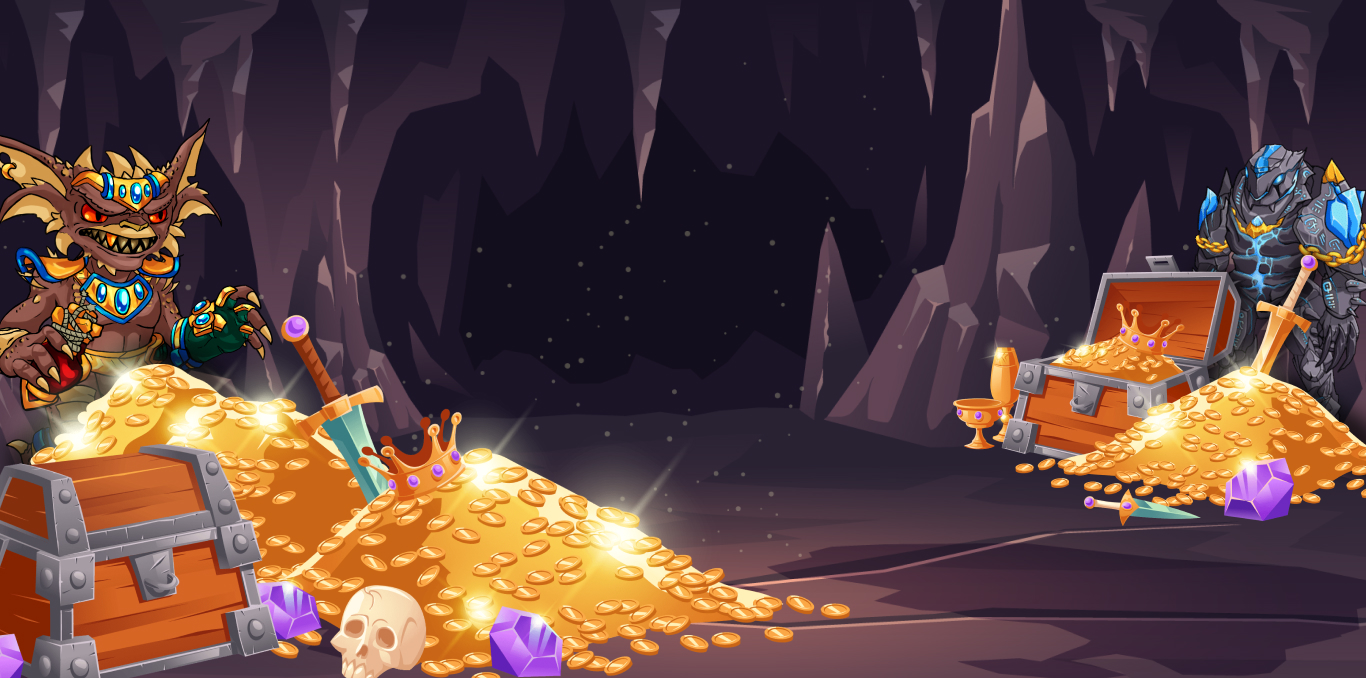
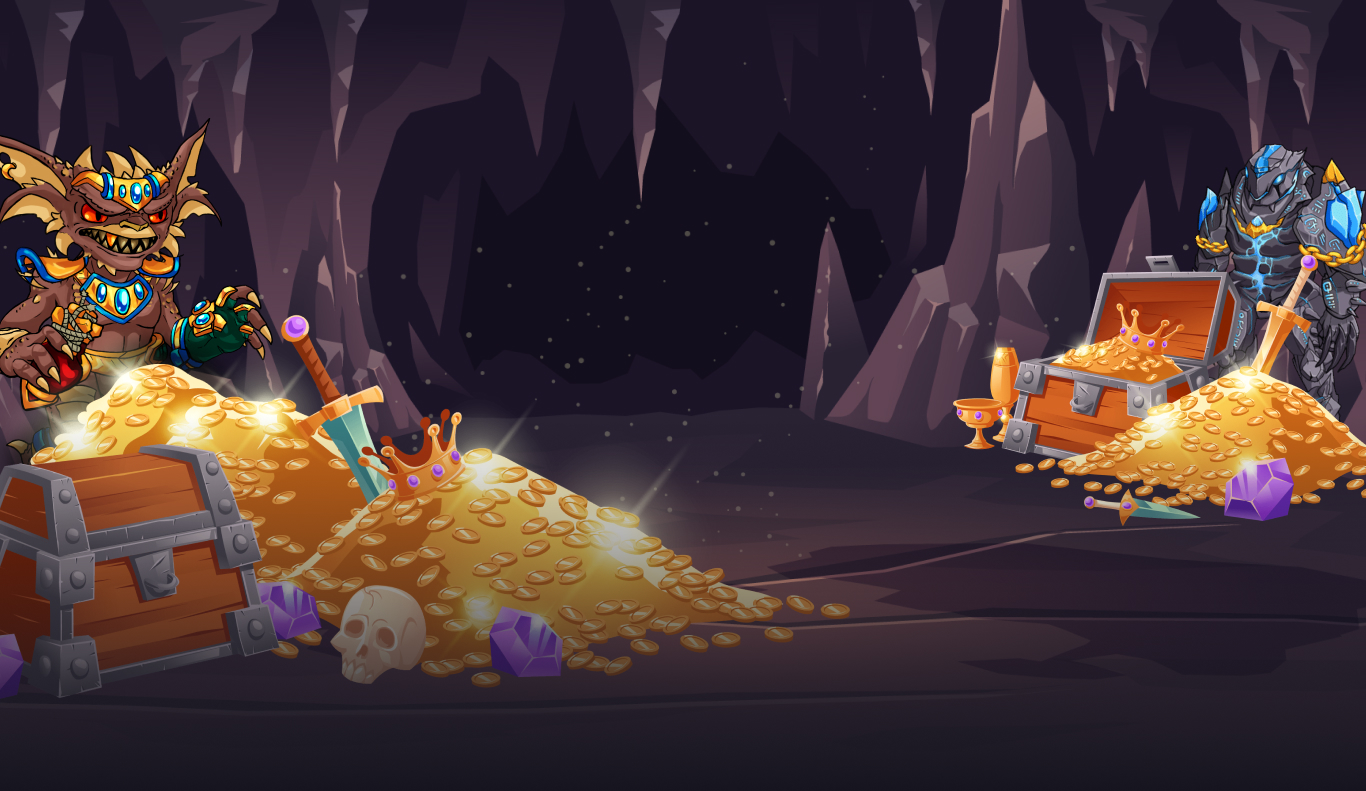
Push

diff --git a/src/components/tabs/Tabs.vue b/src/components/tabs/Tabs.vue
@@ -1,7 +1,9 @@
 <template>
-  <section>
+  <section class="tabs">
     <TabsList />
-    <BoxMonster />
+    <div class="wrapper">
+      <BoxMonster />
+    </div>
   </section>
 </template>
 
@@ -16,3 +18,61 @@ export default {
   },
 };
 </script>
+
+<style scoped lang="scss">
+.tabs {
+  padding-bottom: 24px;
+}
+.wrapper {
+  position: relative;
+  margin: 0 auto;
+  max-height: 507px;
+  width: 280px;
+  overflow: scroll;
+  background-color: #181723;
+  box-shadow: 0px 4px 30px rgba(0, 0, 0, 0.4);
+  border-radius: 10px;
+  &::after {
+    position: fixed;
+    bottom: 24px;
+    width: 280px;
+    max-width: inherit;
+    content: "";
+    display: inline-block;
+    height: 132px;
+    background: linear-gradient(0deg, #262435 0%, rgba(38, 36, 53, 0) 100%);
+  }
+}
+
+@media (min-width: 768px) {
+  .wrapper {
+    width: 700px;
+  }
+}
+
+@media (min-width: 1366px) {
+  .tabs {
+    padding: 90px 0 24px;
+  }
+  .wrapper {
+    width: 980px;
+    max-height: unset;
+    overflow: visible;
+    &::after {
+      display: none;
+    }
+  }
+}
+
+/* @media screen and (orientation: landscape) {
+  .wrapper {
+    overflow: scroll;
+  }
+} */
+</style>
+
+/*FIXME:
+*потрібно реалізувати що при ширені яка в планшеті перевернули екран(orientation: landscape) блок wrapper був - overflow: scroll; в мене не виходить задати таке правило.
+*блок wrapper в мене має висоту, можливо потрібно змінити, щоб підстроювався під висоту пристрою
+*в блокові wrapper створив псевдо елемент ::after i не виходить задати йому ширину 100% - вилазить за родітєля.
+*/

diff --git a/src/App.vue b/src/App.vue
@@ -1,8 +1,12 @@
 <template>
-  <TheHeader />
-  <main class="main">
-    <Tabs />
-  </main>
+  <div class="wrapper">
+    <TheHeader />
+    <main class="main">
+      <Tabs />
+    </main>
+    <div class="bg-img"></div>
+    <div class="bg-black-color"></div>
+  </div>
 </template>
 
 <script>
@@ -37,19 +41,43 @@ img {
   object-fit: cover;
 }
 
-.main {
+.wrapper {
+  position: relative;
+}
+
+.bg-img {
+  position: absolute;
+  top: 0;
+  left: 0;
   width: 100%;
   height: 100%;
   background: url("./assets/img/main-bg-mobile.jpg") center center/cover
     no-repeat;
+  z-index: -1;
+}
+
+.bg-black-color {
+  display: none;
 }
 
 @media (min-width: 1366px) {
-  .main {
-    padding-top: 90px;
+  .bg-img {
+    height: 880px;
     background-image: url("./assets/img/main-bg-desktop.jpg");
+  }
+  .bg-black-color {
+    position: absolute;
+    top: 880px;
+    left: 0;
+    display: block;
+    height: 100%;
+    width: 100%;
+    background-color: #16151f;
+    z-index: -1;
   }
 }
 </style>
+
+
 
 

diff --git a/src/components/tabs/tab-content/box-monster/NezerCrystals.vue b/src/components/tabs/tab-content/box-monster/NezerCrystals.vue
@@ -127,11 +127,6 @@ export default {
 
 <style lang="scss">
 .nazer-crystals {
-  background-color: #181723;
-  box-shadow: 0px 4px 30px rgba(0, 0, 0, 0.4);
-  border-radius: 10px;
-  margin: 10px auto 0;
-  width: 280px;
   padding: 18px 11px;
 }
 .cards-list {
@@ -140,12 +135,16 @@ export default {
   gap: 10px;
 }
 
+@media (min-width: 768px) {
+  .cards-list {
+    grid-template-columns: repeat(3, 1fr);
+    gap: 15px;
+  }
+}
+
 @media (min-width: 1366px) {
   .nazer-crystals {
-    margin-top: 0;
     padding: 24px 26px;
-    width: 980px;
-    border-radius: 0;
   }
   .cards-list {
     grid-template-columns: repeat(4, 1fr);
@@ -154,3 +153,6 @@ export default {
   }
 }
 </style>
+
+/*FIXME: 
+*медіа правило з 768px не виходить перестрщїти колонки для грідів. Інші властивості прописуються

diff --git a/src/components/tabs/tabs-btns/TabItemBtn.vue b/src/components/tabs/tabs-btns/TabItemBtn.vue
@@ -6,7 +6,9 @@
       :class="{ active: title === active }"
     >
       {{ title }}
-      <div class="tab-item__btn-border"></div>
+      <div class="tab-item__btn-border">
+        <div></div>
+      </div>
     </button>
   </li>
 </template>
@@ -59,7 +61,16 @@ export default {
 
   .tab-item__btn:hover .tab-item__btn-border,
   .tab-item__btn.active .tab-item__btn-border {
-    background: linear-gradient(90deg, #f52cbf 0%, #ff7c46 100%);
+    padding: 0 15px;
+    background: linear-gradient(
+      90deg,
+      rgba(245, 44, 191, 0.25) 0%,
+      rgba(255, 124, 70, 0.25) 100%
+    );
+    div {
+      height: 100%;
+      background: linear-gradient(90deg, #f52cbf 0%, #ff7c46 100%);
+    }
   }
 }
 @media (min-width: 1366px) {

diff --git a/src/components/tabs/tab-content/box-monster/NezerCoins.vue b/src/components/tabs/tab-content/box-monster/NezerCoins.vue
@@ -118,12 +118,8 @@ export default {
 
 <style lang="scss">
 .nazer-coins {
-  background-color: #181723;
-  box-shadow: 0px 4px 30px rgba(0, 0, 0, 0.4);
-  border-radius: 0 0 10px 10px;
-  margin: 0 auto;
-  width: 280px;
   padding: 18px 11px;
+  border-top: 1px solid #9794c6;
 }
 .cards-list {
   display: grid;
@@ -133,9 +129,7 @@ export default {
 
 @media (min-width: 1366px) {
   .nazer-coins {
-    width: 980px;
     padding: 24px 26px;
-    border-radius: 0 0 10px 10px;
   }
   .cards-list {
     grid-template-columns: repeat(4, 1fr);

diff --git a/src/components/layout/TheHeader.vue b/src/components/layout/TheHeader.vue
@@ -59,7 +59,13 @@ export default {
     a {
       padding: 13px 24px;
       border: 2px solid black;
+      border-image: linear-gradient(
+        to right,
+        rgba(151, 148, 198, 0.1) 0%,
+        transparent 100%
+      );
       border-radius: 50px;
+      border-image-slice: 1;
       span {
         display: block;
         margin-left: 10px;
@@ -73,3 +79,7 @@ export default {
   }
 }
 </style>
+
+/*FIXME:
+*Бордер для кнопок не заокруглюється
+*/

diff --git a/src/components/tabs/tabs-btns/TabsListBtns.vue b/src/components/tabs/tabs-btns/TabsListBtns.vue
@@ -35,6 +35,7 @@ export default {
   display: grid;
   grid-template-columns: repeat(5, auto);
   height: 48px;
+  margin-bottom: 10px;
 }
 
 @media (min-width: 1366px) {
